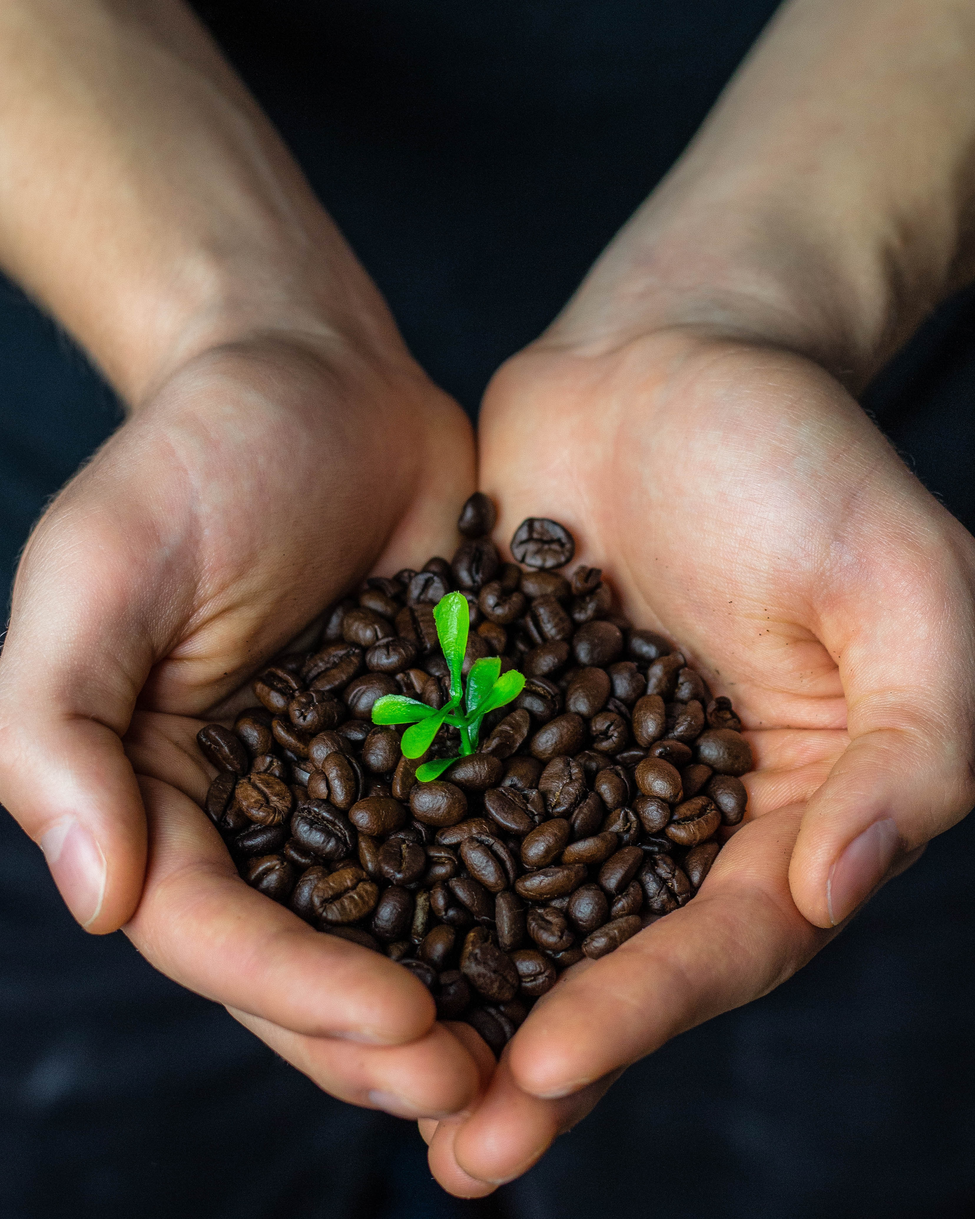
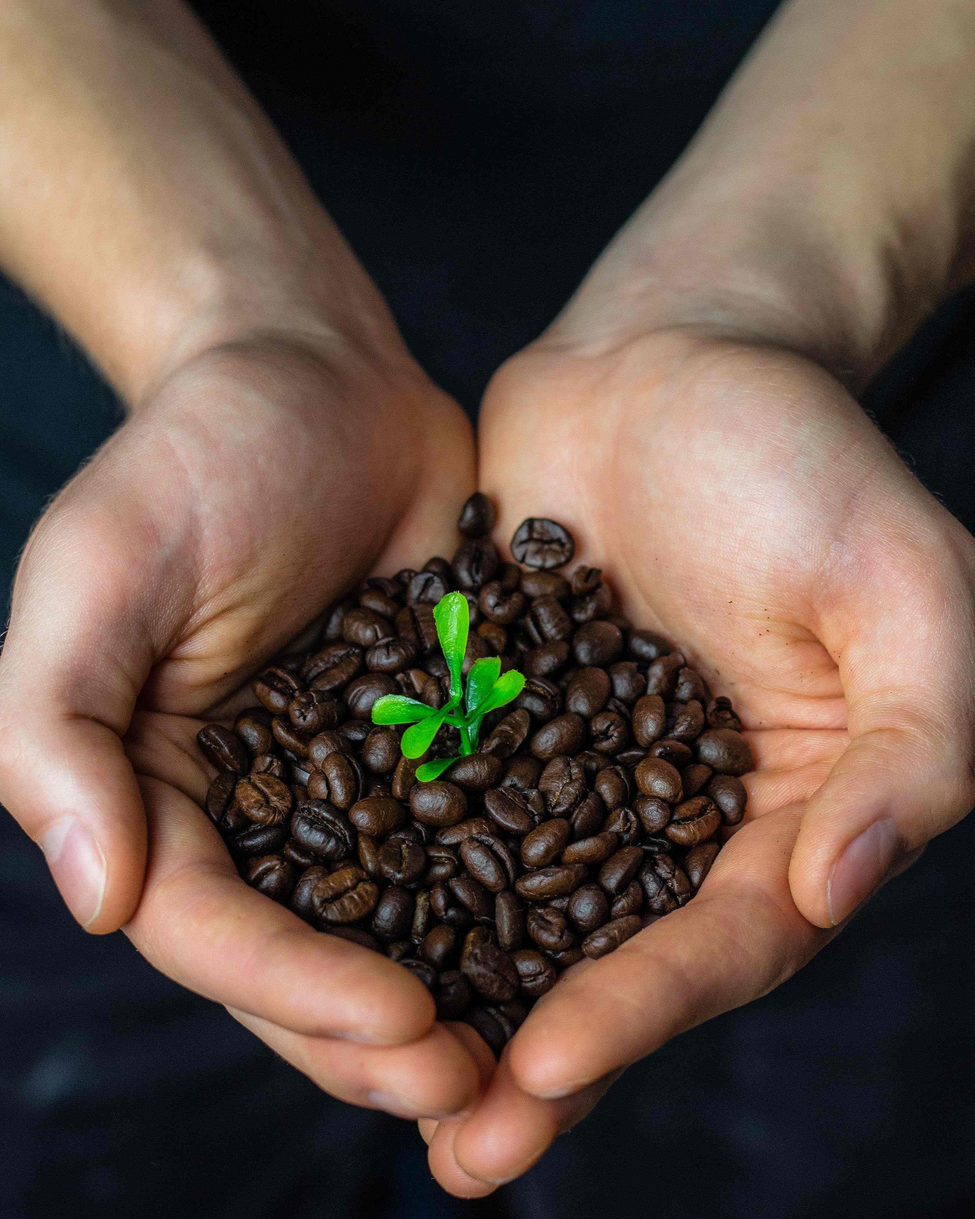
Compressed img size

diff --git a/store.html b/store.html
@@ -40,7 +40,7 @@
 
 
     <div class="header-title">
-      <img src="imgs/49th-cafe.jpg" alt="main-header-img" class="page-img">
+      <img src="imgs/store.jpg" alt="main-header-img" class="page-img">
       <h1 class="page-title">STORE</h2>
     </div>
   </header>
